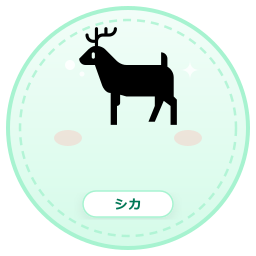
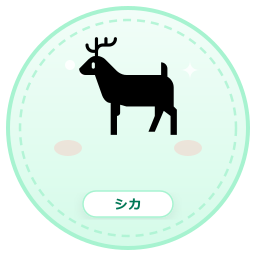
style: 動物アイコンの絵文字垂直位置を下げて上下余白を均等に調整

Changed region(s): [[0.3125, 0.0938, 0.6875, 0.4062], [0.4062, 0.375, 0.7188, 0.5312]]

diff --git a/scripts/generate-animal-icons.js b/scripts/generate-animal-icons.js
@@ -67,11 +67,11 @@ async function generate() {
         <path d="M190 60 Q190 70 200 70 Q190 70 190 80 Q190 70 180 70 Q190 70 190 60 Z" fill="#FFFFFF" opacity="0.8" />
 
         <!-- ほんのりピンクのほっぺチーク（愛嬌アップ） -->
-        <ellipse cx="68" cy="138" rx="14" ry="8" fill="#FFB7B2" opacity="0.35" />
-        <ellipse cx="188" cy="138" rx="14" ry="8" fill="#FFB7B2" opacity="0.35" />
+        <ellipse cx="68" cy="148" rx="14" ry="8" fill="#FFB7B2" opacity="0.35" />
+        <ellipse cx="188" cy="148" rx="14" ry="8" fill="#FFB7B2" opacity="0.35" />
 
-        <!-- 中央の動物絵文字（真中心・上下左右センター・特大サイズ104px） -->
-        <text x="128" y="128" font-size="104" text-anchor="middle" dominant-baseline="central">
+        <!-- 中央の動物絵文字（上下余白均等の真中心に調整: y=138） -->
+        <text x="128" y="138" font-size="104" text-anchor="middle" dominant-baseline="central">
           ${item.emoji}
         </text>
         
